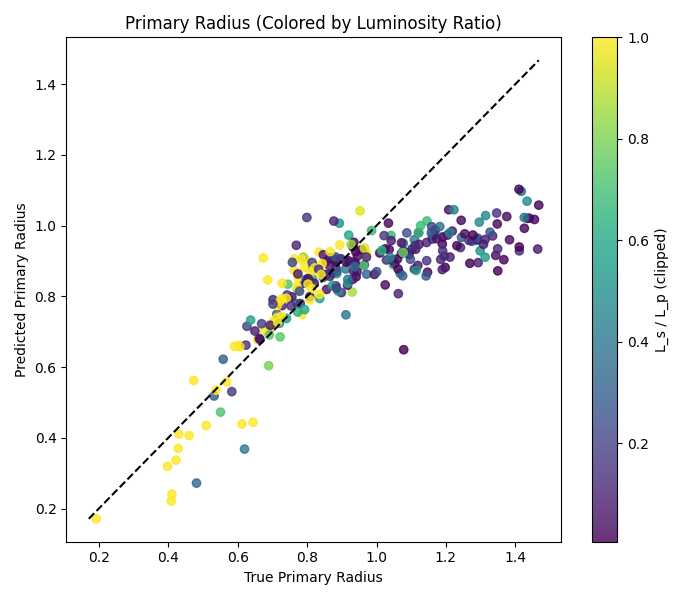
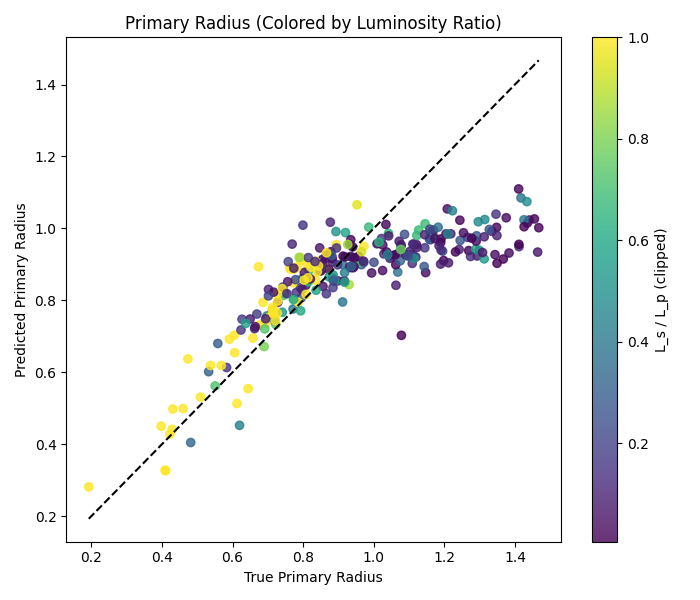
gentler weighting where we sqrt(lum ratio + 0.5)

diff --git a/ANN/bANN_utils.py b/ANN/bANN_utils.py
@@ -219,29 +219,6 @@ class StellarANN(nn.Module):
 
         return self.net(x)
 
-# ============================================================
-# KEEP ALL YOUR EXISTING PLOTTING / KOI FUNCTIONS BELOW
-# ============================================================
-
-#
-# IMPORTANT:
-#
-# DO NOT change your prediction pipeline anymore.
-#
-# You now have:
-#
-# ✔ consistent masking
-# ✔ consistent normalization
-# ✔ larger ANN capacity
-# ✔ no dropout
-# ✔ weight decay
-# ✔ early stopping
-# ✔ weighted low-luminosity training
-#
-# This is now MUCH better aligned with
-# spectroscopy regression problems.
-#
-# ============================================================
 def plot_pred_vs_true(y_true, y_pred, label_names, output_dir):
 
     units = {

diff --git a/ANN/bANN.py b/ANN/bANN.py
@@ -144,7 +144,8 @@ def train_and_evaluate():
     # INVERSE WEIGHTING
     # -----------------------------------
 
-    sample_weights = 1.0 / (lum_ratio + 0.05)
+    # sample_weights = 1.0 / (lum_ratio + 0.05)
+    sample_weights = 1.0 / np.sqrt(lum_ratio + 0.05)
 
     # avoid huge exploding weights
     sample_weights = np.clip(
